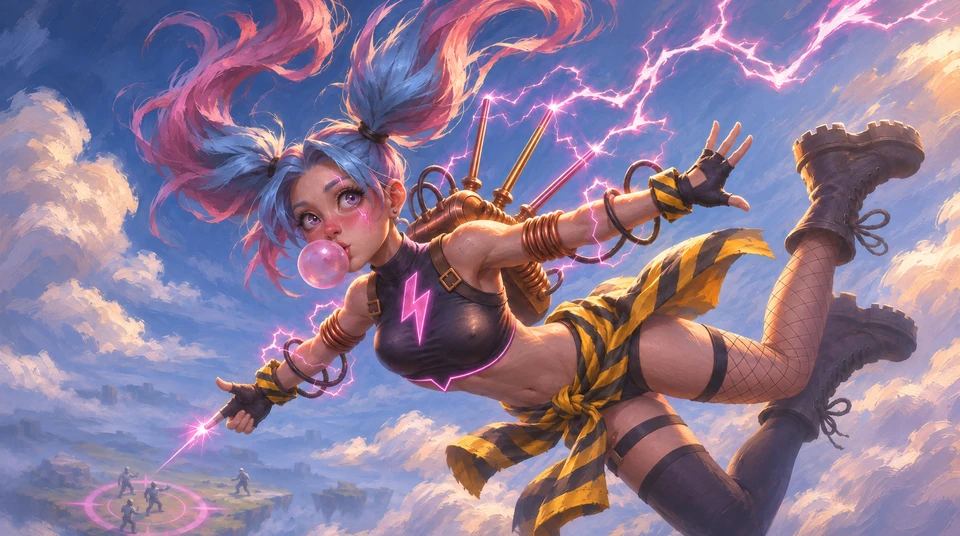
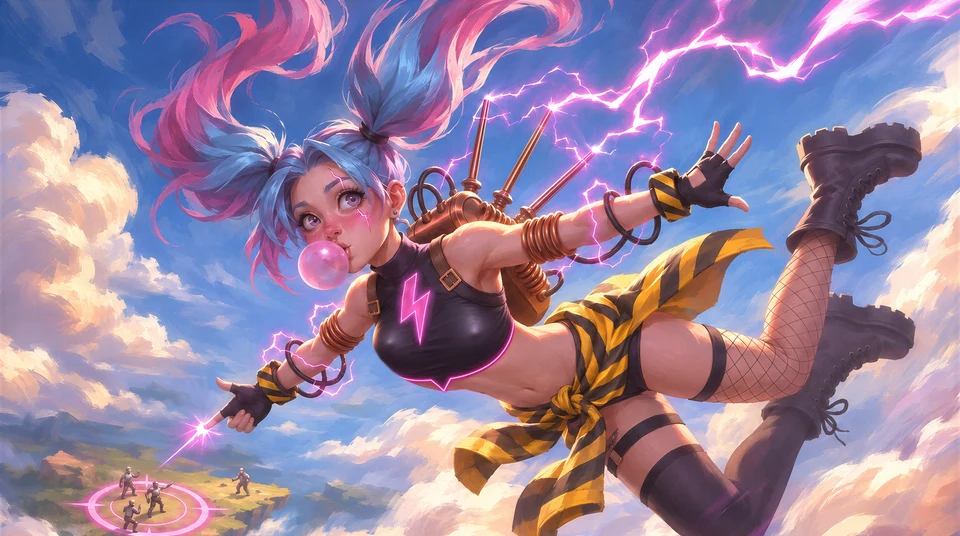
Hunter art update (cache bump 2026-11-15t18)
Claude-Session: https://claude.ai/code/session_01Fa986kEoxoUbsf7VZzVwQa

diff --git a/presskit.html b/presskit.html
@@ -11,7 +11,7 @@
 <link rel="apple-touch-icon" href="/assets/img/apple-touch-icon.png?v=2">
 <meta property="og:title" content="Project Boki press kit">
 <meta property="og:image" content="https://projectboki.com/assets/img/og.jpg?v=15">
-<link rel="stylesheet" href="assets/style.css?v=290">
+<link rel="stylesheet" href="assets/style.css?v=291">
 <link rel="canonical" href="https://projectboki.com/presskit.html">
 <link rel="manifest" href="/site.webmanifest">
 <script>
@@ -101,19 +101,19 @@
         </div>
         <h2>Hunter art</h2>
         <div class="pk-grid">
-          <a href="assets/img/hunters/lisette-2400.webp?v=2026-11-15t14" target="_blank"><img src="assets/img/hunters/lisette-960.webp?v=2026-11-15t14" alt="Lace splash art" loading="lazy"><span class="pk-cap">Lace</span></a>
-          <a href="assets/img/hunters/breaker-2400.webp?v=2026-11-15t14" target="_blank"><img src="assets/img/hunters/breaker-960.webp?v=2026-11-15t14" alt="Albert splash art" loading="lazy"><span class="pk-cap">Albert</span></a>
-          <a href="assets/img/hunters/vex-2400.webp?v=2026-11-15t14" target="_blank"><img src="assets/img/hunters/vex-960.webp?v=2026-11-15t14" alt="Vex splash art" loading="lazy"><span class="pk-cap">Vex</span></a>
-          <a href="assets/img/hunters/kael-2400.webp?v=2026-11-15t14" target="_blank"><img src="assets/img/hunters/kael-960.webp?v=2026-11-15t14" alt="Kael splash art" loading="lazy"><span class="pk-cap">Kael</span></a>
-          <a href="assets/img/hunters/claire-2400.webp?v=2026-11-15t14" target="_blank"><img src="assets/img/hunters/claire-960.webp?v=2026-11-15t14" alt="Neve splash art" loading="lazy"><span class="pk-cap">Neve</span></a>
-          <a href="assets/img/hunters/cinder-2400.webp?v=2026-11-15t14" target="_blank"><img src="assets/img/hunters/cinder-960.webp?v=2026-11-15t14" alt="Cinder splash art" loading="lazy"><span class="pk-cap">Cinder</span></a>
-          <a href="assets/img/hunters/tarek-2400.webp?v=2026-11-15t14" target="_blank"><img src="assets/img/hunters/tarek-960.webp?v=2026-11-15t14" alt="Tenzo splash art" loading="lazy"><span class="pk-cap">Tenzo</span></a>
-          <a href="assets/img/hunters/ryzz-2400.webp?v=2026-11-15t14" target="_blank"><img src="assets/img/hunters/ryzz-960.webp?v=2026-11-15t14" alt="Sparkle splash art" loading="lazy"><span class="pk-cap">Sparkle</span></a>
-          <a href="assets/img/hunters/grimble-2400.webp?v=2026-11-15t14" target="_blank"><img src="assets/img/hunters/grimble-960.webp?v=2026-11-15t14" alt="Grimble splash art" loading="lazy"><span class="pk-cap">Grimble</span></a>
-          <a href="assets/img/hunters/pip-2400.webp?v=2026-11-15t14" target="_blank"><img src="assets/img/hunters/pip-960.webp?v=2026-11-15t14" alt="Meeko splash art" loading="lazy"><span class="pk-cap">Meeko</span></a>
-          <a href="assets/img/hunters/sable-2400.webp?v=2026-11-15t14" target="_blank"><img src="assets/img/hunters/sable-960.webp?v=2026-11-15t14" alt="Sable splash art" loading="lazy"><span class="pk-cap">Sable</span></a>
-          <a href="assets/img/hunters/gill-2400.webp?v=2026-11-15t14" target="_blank"><img src="assets/img/hunters/gill-960.webp?v=2026-11-15t14" alt="Gill splash art" loading="lazy"><span class="pk-cap">Gill</span></a>
-          <a href="assets/img/hunters/motley-2400.webp?v=2026-11-15t14" target="_blank"><img src="assets/img/hunters/motley-960.webp?v=2026-11-15t14" alt="Motley splash art" loading="lazy"><span class="pk-cap">Motley</span></a>
+          <a href="assets/img/hunters/lisette-2400.webp?v=2026-11-15t18" target="_blank"><img src="assets/img/hunters/lisette-960.webp?v=2026-11-15t18" alt="Lace splash art" loading="lazy"><span class="pk-cap">Lace</span></a>
+          <a href="assets/img/hunters/breaker-2400.webp?v=2026-11-15t18" target="_blank"><img src="assets/img/hunters/breaker-960.webp?v=2026-11-15t18" alt="Albert splash art" loading="lazy"><span class="pk-cap">Albert</span></a>
+          <a href="assets/img/hunters/vex-2400.webp?v=2026-11-15t18" target="_blank"><img src="assets/img/hunters/vex-960.webp?v=2026-11-15t18" alt="Vex splash art" loading="lazy"><span class="pk-cap">Vex</span></a>
+          <a href="assets/img/hunters/kael-2400.webp?v=2026-11-15t18" target="_blank"><img src="assets/img/hunters/kael-960.webp?v=2026-11-15t18" alt="Kael splash art" loading="lazy"><span class="pk-cap">Kael</span></a>
+          <a href="assets/img/hunters/claire-2400.webp?v=2026-11-15t18" target="_blank"><img src="assets/img/hunters/claire-960.webp?v=2026-11-15t18" alt="Neve splash art" loading="lazy"><span class="pk-cap">Neve</span></a>
+          <a href="assets/img/hunters/cinder-2400.webp?v=2026-11-15t18" target="_blank"><img src="assets/img/hunters/cinder-960.webp?v=2026-11-15t18" alt="Cinder splash art" loading="lazy"><span class="pk-cap">Cinder</span></a>
+          <a href="assets/img/hunters/tarek-2400.webp?v=2026-11-15t18" target="_blank"><img src="assets/img/hunters/tarek-960.webp?v=2026-11-15t18" alt="Tenzo splash art" loading="lazy"><span class="pk-cap">Tenzo</span></a>
+          <a href="assets/img/hunters/ryzz-2400.webp?v=2026-11-15t18" target="_blank"><img src="assets/img/hunters/ryzz-960.webp?v=2026-11-15t18" alt="Sparkle splash art" loading="lazy"><span class="pk-cap">Sparkle</span></a>
+          <a href="assets/img/hunters/grimble-2400.webp?v=2026-11-15t18" target="_blank"><img src="assets/img/hunters/grimble-960.webp?v=2026-11-15t18" alt="Grimble splash art" loading="lazy"><span class="pk-cap">Grimble</span></a>
+          <a href="assets/img/hunters/pip-2400.webp?v=2026-11-15t18" target="_blank"><img src="assets/img/hunters/pip-960.webp?v=2026-11-15t18" alt="Meeko splash art" loading="lazy"><span class="pk-cap">Meeko</span></a>
+          <a href="assets/img/hunters/sable-2400.webp?v=2026-11-15t18" target="_blank"><img src="assets/img/hunters/sable-960.webp?v=2026-11-15t18" alt="Sable splash art" loading="lazy"><span class="pk-cap">Sable</span></a>
+          <a href="assets/img/hunters/gill-2400.webp?v=2026-11-15t18" target="_blank"><img src="assets/img/hunters/gill-960.webp?v=2026-11-15t18" alt="Gill splash art" loading="lazy"><span class="pk-cap">Gill</span></a>
+          <a href="assets/img/hunters/motley-2400.webp?v=2026-11-15t18" target="_blank"><img src="assets/img/hunters/motley-960.webp?v=2026-11-15t18" alt="Motley splash art" loading="lazy"><span class="pk-cap">Motley</span></a>
         </div>
         <h2>Boki art</h2>
         <div class="pk-grid pk-grid-boki" id="pk-boki" hidden></div>
@@ -151,7 +151,7 @@
   <div class="consent-b"><button class="btn btn-glass btn-sm" type="button" data-no>Decline</button><button class="btn btn-solid btn-sm" type="button" data-yes>Accept</button></div>
 </div>
 
-<script src="assets/site.js?v=324"></script>
+<script src="assets/site.js?v=325"></script>
 <script src="assets/signup.js?v=1"></script>
 <script src="/assets/topbar.js?v=7" defer></script>
 </body>

diff --git a/index.html b/index.html
@@ -78,7 +78,7 @@
 <link rel="preload" as="fetch" crossorigin="anonymous" href="assets/boki.json">
 <link rel="preload" as="image" crossorigin="anonymous" href="assets/img/wordmark-boki-1280.webp" imagesrcset="assets/img/wordmark-boki-640.webp 640w, assets/img/wordmark-boki-800.webp 800w, assets/img/wordmark-boki-1040.webp 1040w, assets/img/wordmark-boki-1280.webp 1280w, assets/img/wordmark-boki-1440.webp 1440w, assets/img/wordmark-boki-2000.webp 2000w" imagesizes="(max-width: 477px) 66vw, (max-width: 720px) 420px, (max-width: 900px) 46vw, (max-width: 1940px) 50vw, 960px">
 
-<link rel="stylesheet" href="assets/style.css?v=290">
+<link rel="stylesheet" href="assets/style.css?v=291">
 <script>
   // A refresh always starts at the top: no restored scroll, and a #section left in the address bar is dropped.
   // Links that arrive with a #section (from the press kit, say) still jump to it.
@@ -170,7 +170,7 @@
       <button class="bk-arrow prev h-arrow" type="button" id="h-prev" aria-label="Previous Hunter"><svg viewBox="0 0 24 24" aria-hidden="true"><path d="M15 5l-7 7 7 7" fill="none" stroke="currentColor" stroke-width="2.6" stroke-linecap="round" stroke-linejoin="round"/></svg></button>
       <button class="bk-arrow next h-arrow" type="button" id="h-next" aria-label="Next Hunter"><svg viewBox="0 0 24 24" aria-hidden="true"><path d="M9 5l7 7-7 7" fill="none" stroke="currentColor" stroke-width="2.6" stroke-linecap="round" stroke-linejoin="round"/></svg></button>
       <div class="bk-count h-count"><b id="h-n">01</b> / <span>13</span></div>
-      <div class="shot"><img data-zoom id="h-art" src="assets/img/hunters/vex-1600.webp?v=2026-11-15t14" srcset="assets/img/hunters/vex-960.webp?v=2026-11-15t14 960w, assets/img/hunters/vex-1600.webp?v=2026-11-15t14 1600w, assets/img/hunters/vex-2400.webp?v=2026-11-15t14 2400w" sizes="(max-width: 720px) 260vw, (max-width: 1000px) and (orientation: portrait) 150vw, (max-width: 1280px) 100vw, 1240px" alt="Vex, the Hired Gun" loading="lazy"><button class="h-expand" type="button" id="h-expand" aria-label="View full art"><svg viewBox="0 0 24 24" fill="none" stroke="currentColor" stroke-width="2.2" stroke-linecap="round" stroke-linejoin="round" aria-hidden="true"><path d="M14 4h6v6M10 20H4v-6M20 4l-6.5 6.5M4 20l6.5-6.5"/></svg></button></div>
+      <div class="shot"><img data-zoom id="h-art" src="assets/img/hunters/vex-1600.webp?v=2026-11-15t18" srcset="assets/img/hunters/vex-960.webp?v=2026-11-15t18 960w, assets/img/hunters/vex-1600.webp?v=2026-11-15t18 1600w, assets/img/hunters/vex-2400.webp?v=2026-11-15t18 2400w" sizes="(max-width: 720px) 260vw, (max-width: 1000px) and (orientation: portrait) 150vw, (max-width: 1280px) 100vw, 1240px" alt="Vex, the Hired Gun" loading="lazy"><button class="h-expand" type="button" id="h-expand" aria-label="View full art"><svg viewBox="0 0 24 24" fill="none" stroke="currentColor" stroke-width="2.2" stroke-linecap="round" stroke-linejoin="round" aria-hidden="true"><path d="M14 4h6v6M10 20H4v-6M20 4l-6.5 6.5M4 20l6.5-6.5"/></svg></button></div>
       <div class="info" aria-live="polite">
         <div class="role" id="h-role" data-role="Gunslinger">Gunslinger</div>
         <h3 id="h-name">Vex</h3>
@@ -289,7 +289,7 @@
   <symbol id="i-play" viewBox="0 0 24 24"><path d="M7 4.5v15a1 1 0 0 0 1.5.86l12.4-7.5a1 1 0 0 0 0-1.72L8.5 3.64A1 1 0 0 0 7 4.5Z"/></symbol>
 </svg>
 
-<script src="assets/site.js?v=324"></script>
+<script src="assets/site.js?v=325"></script>
 <script src="assets/signup.js?v=1"></script>
 <script src="/assets/topbar.js?v=7" defer></script>
 </body>

diff --git a/devlog.html b/devlog.html
@@ -9,7 +9,7 @@
 <link rel="icon" href="/favicon.ico?v=2" sizes="any">
 <link rel="icon" href="/assets/img/favicon.png?v=2" type="image/png">
 <link rel="apple-touch-icon" href="/assets/img/apple-touch-icon.png?v=2">
-<link rel="stylesheet" href="assets/style.css?v=290">
+<link rel="stylesheet" href="assets/style.css?v=291">
 <link rel="canonical" href="https://projectboki.com/devlog.html">
 <link rel="manifest" href="/site.webmanifest">
 <script>
@@ -62,7 +62,7 @@
       <article class="dl-post" id="hunter-kits">
         <time datetime="2026-11-09">November 9, 2026</time>
         <h2>Hunter kits are on the site</h2>
-        <a class="dl-img" href="index.html#hunters"><img src="assets/img/hunters/breaker-1600.webp?v=2026-11-15t14" width="1600" height="893" alt="Albert, the Barnacle Knight" loading="lazy"></a>
+        <a class="dl-img" href="index.html#hunters"><img src="assets/img/hunters/breaker-1600.webp?v=2026-11-15t18" width="1600" height="893" alt="Albert, the Barnacle Knight" loading="lazy"></a>
         <p>Tap Abilities on any Hunter to see their full kit: weapon, passive, dash, both abilities and their ultimate.</p>
         <p>The kits come straight from the game files, so they stay current as we tune each Hunter.</p>
       </article>
@@ -90,7 +90,7 @@
   <div class="consent-b"><button class="btn btn-glass btn-sm" type="button" data-no>Decline</button><button class="btn btn-solid btn-sm" type="button" data-yes>Accept</button></div>
 </div>
 
-<script src="assets/site.js?v=324"></script>
+<script src="assets/site.js?v=325"></script>
 <script src="assets/signup.js?v=1"></script>
 <script src="/assets/topbar.js?v=7" defer></script>
 </body>

diff --git a/privacy.html b/privacy.html
@@ -9,7 +9,7 @@
 <link rel="icon" href="/favicon.ico?v=2" sizes="any">
 <link rel="icon" href="/assets/img/favicon.png?v=2" type="image/png">
 <link rel="apple-touch-icon" href="/assets/img/apple-touch-icon.png?v=2">
-<link rel="stylesheet" href="assets/style.css?v=290">
+<link rel="stylesheet" href="assets/style.css?v=291">
 <link rel="canonical" href="https://projectboki.com/privacy.html">
 <link rel="manifest" href="/site.webmanifest">
 <script>
@@ -99,7 +99,7 @@
   <div class="consent-b"><button class="btn btn-glass btn-sm" type="button" data-no>Decline</button><button class="btn btn-solid btn-sm" type="button" data-yes>Accept</button></div>
 </div>
 
-<script src="assets/site.js?v=324"></script>
+<script src="assets/site.js?v=325"></script>
 <script src="assets/signup.js?v=1"></script>
 <script src="/assets/topbar.js?v=7" defer></script>
 </body>

diff --git a/assets/site.js b/assets/site.js
@@ -192,7 +192,7 @@ if (heroIn && !calm) {
 
 /* ---------- Hunters: pick a Mask ---------- */
 // [id, name, title, has an up-to-date in-game model, role (from the kit's role line in the game)]
-const ART_V = "2026-11-15t14"; // bump when a Hunter splash changes
+const ART_V = "2026-11-15t18"; // bump when a Hunter splash changes
 // order 11-15 owner (r3: Grimble before Cinder): Kael Lace Albert = kingsguard trio (Cinder is not kingsguard); Sable last so Gill splits the purples (Motley/Sable)
 const HUNTERS = [
   ["vex", "Vex", "The Hired Gun", true, "Gunslinger"],

diff --git a/2d/old.html b/2d/old.html
@@ -6,7 +6,7 @@
 <meta name="robots" content="noindex,nofollow">
 <title>Boki 2D Art · Project Boki</title>
 <link rel="icon" href="/favicon.ico" sizes="any">
-<link rel="stylesheet" href="/assets/style.css?v=290">
+<link rel="stylesheet" href="/assets/style.css?v=291">
 <style>
 /* Upload room for 2D Boki art. Same password as /3d. Uploads commit straight to the website repo through the
    GitHub API, so they go live on the next Pages build (about a minute). */

diff --git a/404.html b/404.html
@@ -7,7 +7,7 @@
 <link rel="icon" href="/favicon.ico?v=2" sizes="any">
 <link rel="icon" href="/assets/img/favicon.png?v=2" type="image/png">
 <link rel="apple-touch-icon" href="/assets/img/apple-touch-icon.png?v=2">
-<link rel="stylesheet" href="/assets/style.css?v=290">
+<link rel="stylesheet" href="/assets/style.css?v=291">
 </head>
 <body>
 <header class="nav" id="nav">
